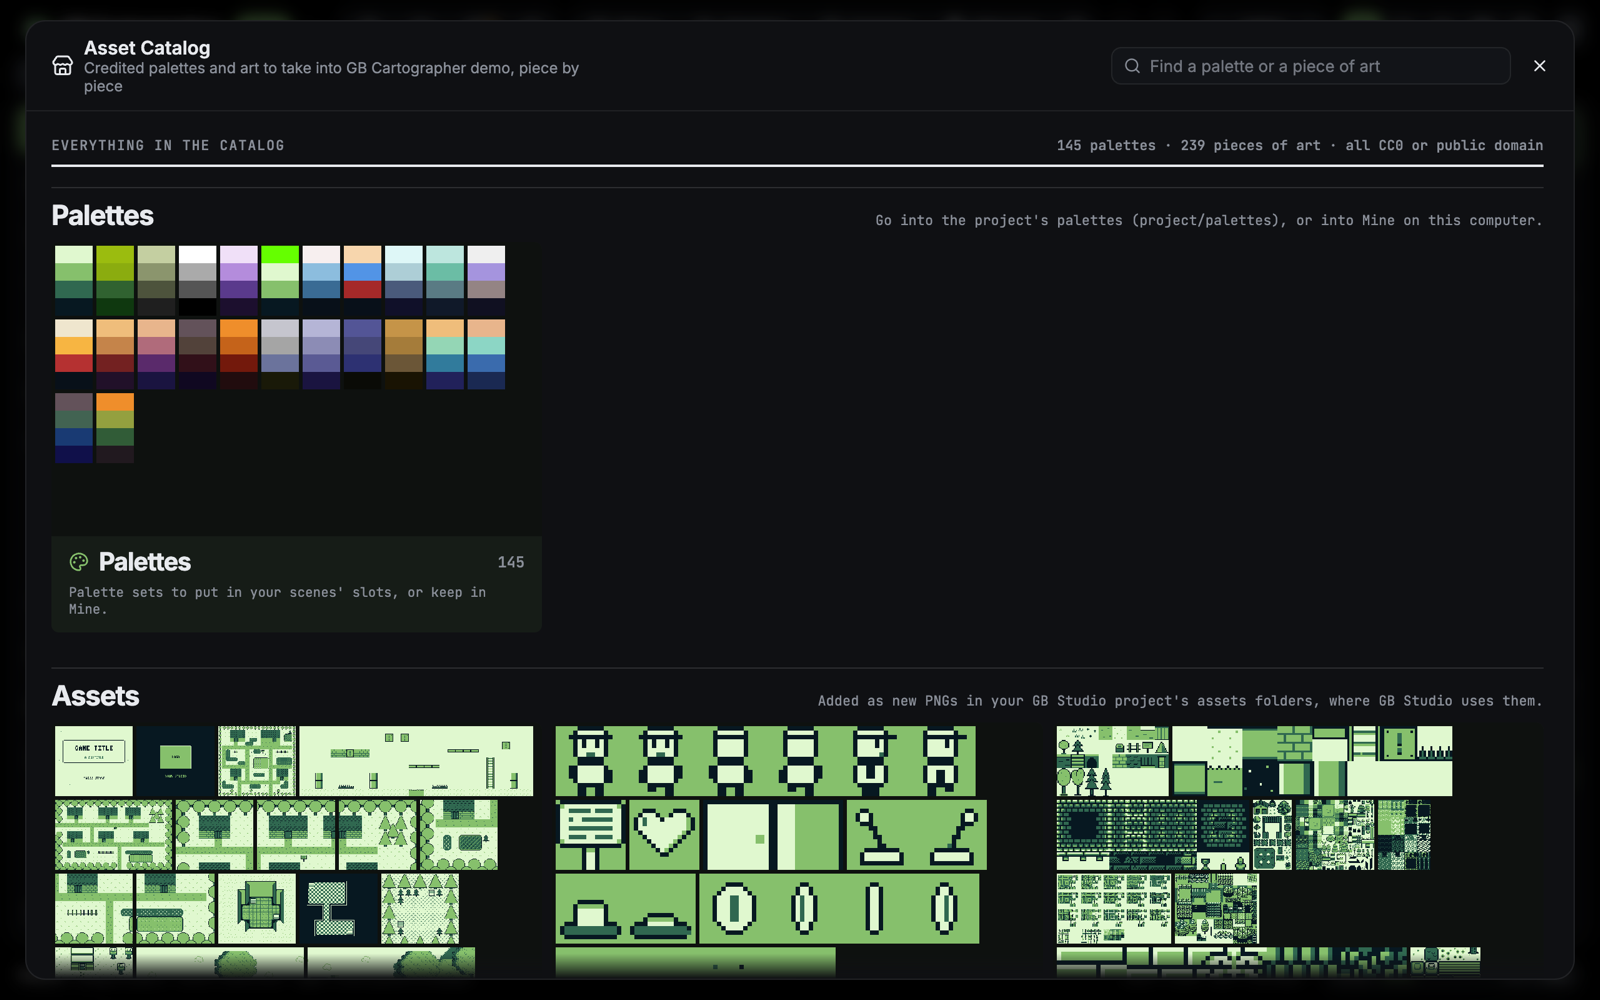
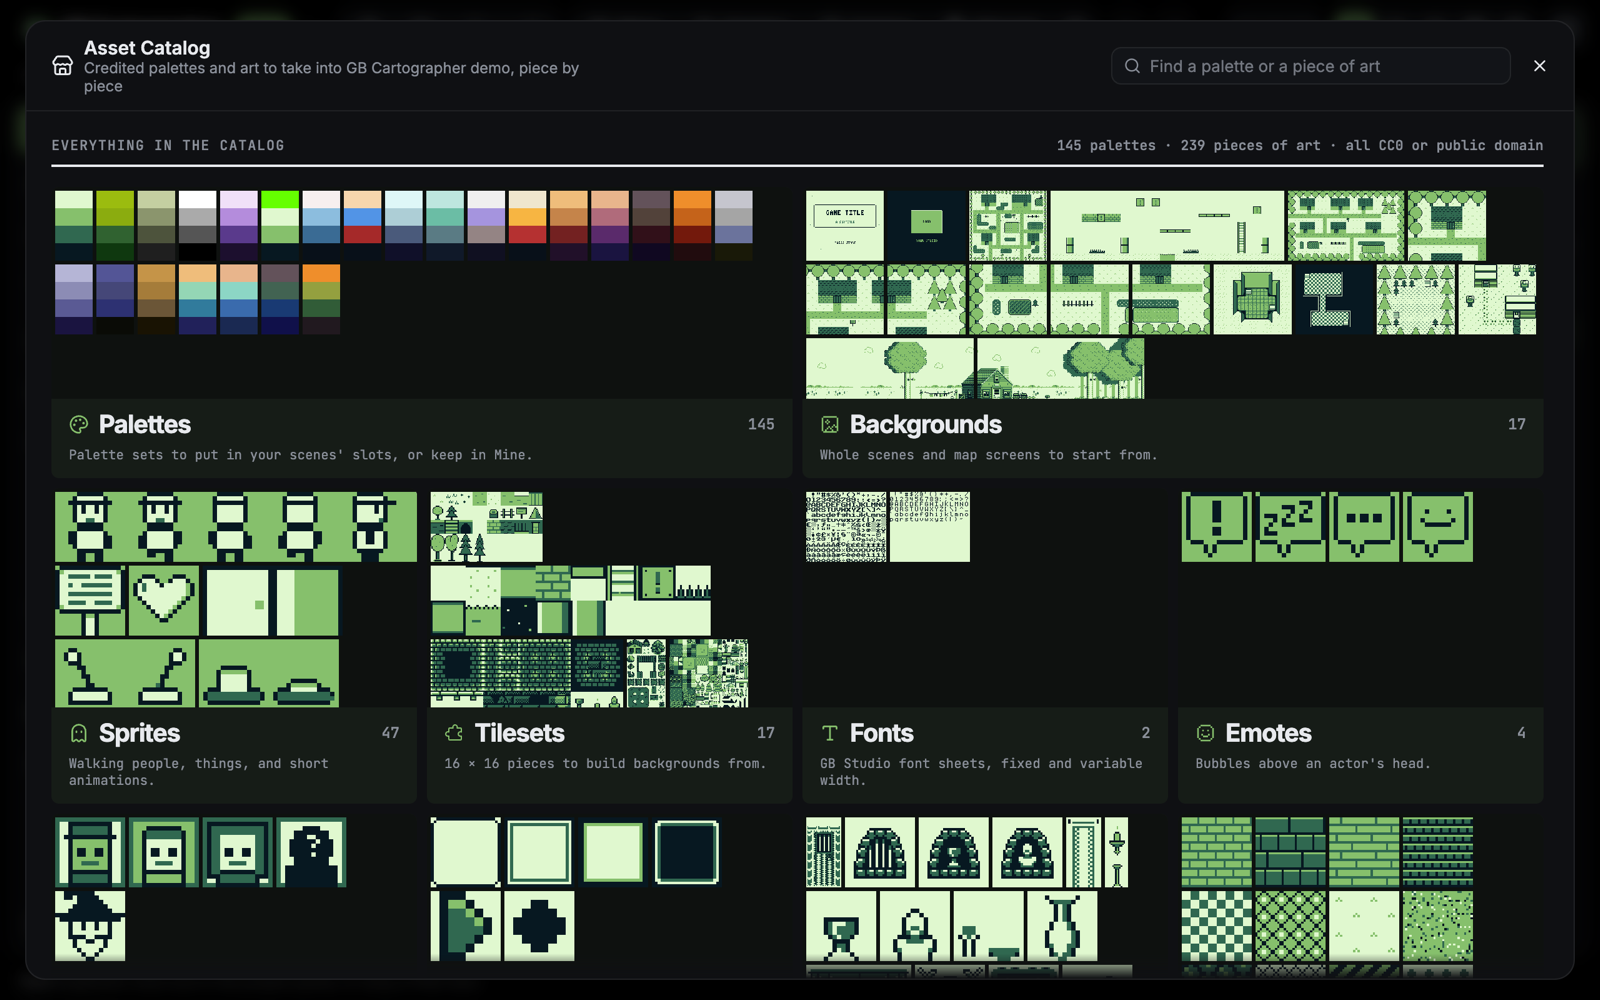
Asset Catalog home: one four-column grid in the sidebar's order; README media redone on the demo's town, a cave GIF, the Map Room full width

diff --git a/src/app/StoreWindow.tsx b/src/app/StoreWindow.tsx
@@ -151,6 +151,8 @@ const SECTIONS: { id: string; title: string; note: string; ids: CategoryId[] }[]
   { id: "pictures", title: "Assets", note: "Added as new PNGs in your GB Studio project's assets folders, where GB Studio uses them.", ids: ["backgrounds", "sprites", "tilesets", "fonts", "emotes", "avatars", "ui"] },
   { id: "stamps", title: "Stamps", note: "Added to Cartographer/stamps in your project, for painting with in GB Cartographer. GB Studio never reads them.", ids: ["objects", "repeat", "autotiles", "animated"] },
 ];
+/** Home tiles two columns wide; the rest are one (4 + 4 + 4 + 4 across the four rows). */
+const WIDE_TILES = new Set<CategoryId>(["palettes", "backgrounds", "autotiles", "animated"]);
 const isStampCategory = (id: CategoryId) => SECTIONS[2].ids.includes(id);
 const categoryOf = (asset: WireAsset): CategoryId => asset.kind === "stamps" ? stampGroup({ autotile: asset.autotile, tags: asset.group === "Patterns" ? ["pattern"] : [] }) : asset.kind as CategoryId;
 const PALETTE_COUNT = SHELVES.reduce((sum, shelf) => sum + shelf.sets.reduce((n, set) => n + set.palettes.length, 0), 0);
@@ -185,30 +187,30 @@ export function StoreWindow({ projectName, projectPalettes, onClose, onAddToProj
   async function addArt(asset: WireAsset, art: Canvas) { setBusy(true); try { if (await onAddArt(asset, art)) setAdded((was) => new Set(was).add(asset.id)); } finally { setBusy(false); } }
   const home = () => { setCategory(null); setQuery(""); };
 
-  /** The home: a tile per category in an even grid. */
-  const mosaic = SECTIONS.map((section) => (
-    <section key={section.id} className={`stm-section stm-section--${section.id}`}>
-      <header className="stm-section-head"><span className="stm-section-title">{section.title}</span><span className="stm-section-note">{section.note}</span></header>
+  /**
+   * The home (the author, 2026-10-14: "just mix it all up, 4 columns, in order of appearance in the sidebar; no tile
+   * bigger than 2 wide or 1 tall"): one grid, palettes first, then the rail's folders and stamp shelves in order.
+   */
+  const mosaic = (
       <div className="stm-grid">
-      {CATEGORIES.filter((item) => section.ids.includes(item.id)).map((item) => {
+      {CATEGORIES.map((item) => {
         const n = count(item.id);
         const collage = item.id === "palettes"
           ? SHELVES.flatMap((shelf) => shelf.sets.flatMap((set) => set.palettes)).slice(0, 24).map((palette) => <span key={palette.name} className="stm-chip">{palette.colors.map((color, at) => <i key={at} style={{ background: color }} />)}</span>)
           : pieces.filter((piece) => piece.category === item.id).slice(0, 18).map(({ asset, art }) => <img key={asset.id} src={pictureUrl(asset.id, art)} alt="" draggable={false} />);
         // A grid like the Wizards' (the author, 2026-10-14): the collage on top, the name, count and line below.
         return (
-          <button key={item.id} type="button" className="stm-cat" disabled={!n} onClick={() => setCategory(item.id)} title={n ? `${item.name}: ${item.about}` : `${item.name}: none in the catalog yet`}>
+          <button key={item.id} type="button" className={`stm-cat${WIDE_TILES.has(item.id) ? " stm-cat--wide" : ""}`} disabled={!n} onClick={() => setCategory(item.id)} title={n ? `${item.name}: ${item.about}` : `${item.name}: none in the catalog yet`}>
             <span className="stm-cat-art" aria-hidden><span className="stm-cat-collage">{collage}</span></span>
             <span className="stm-cat-text">
               <span className="stm-cat-name"><span className="stm-icon">{item.icon}</span>{item.name}<span className="stm-cat-count">{n || "–"}</span></span>
-              <span className="stm-meta">{n ? item.about : "None yet"}</span>
+              <span className="stm-meta">{n ? item.about : "None yet"}{isStampCategory(item.id) && <> · a stamp shelf</>}</span>
             </span>
           </button>
         );
       })}
       </div>
-    </section>
-  ));
+  );
 
   const artTiles = (list: typeof pieces) => (
     <div className="stm-tiles">

diff --git a/src/app/StoreWindow.css b/src/app/StoreWindow.css
@@ -93,7 +93,9 @@
 .stm-tile-source { position: relative; display: flex; margin-top: 4px; }
 
 /* The home as an even grid, like the Wizards (the author, 2026-10-14): three across, the collage on top. */
-.stm-grid { display: grid; grid-template-columns: repeat(3, minmax(0, 1fr)); gap: 8px; }
+.stm-grid { display: grid; grid-template-columns: repeat(4, minmax(0, 1fr)); grid-auto-flow: dense; gap: 8px; }
+.stm-cat--wide { grid-column: span 2; }
+.stm-cat--wide .stm-cat-art { aspect-ratio: 336 / 96; }
 .stm-cat { position: relative; overflow: hidden; display: flex; flex-direction: column; padding: 0; border: 0; border-radius: 6px; background: var(--k-panel-2, #161c17); color: var(--k-ink); text-align: left; font: inherit; cursor: pointer; }
 .stm-cat:disabled { opacity: .45; cursor: default; }
 .stm-cat-art { position: relative; aspect-ratio: 160 / 96; overflow: hidden; background: #0e110f; }
@@ -106,4 +108,4 @@
 .stm-cat-name .stm-icon svg { width: 16px; height: 16px; }
 .stm-cat-count { margin-left: auto; font: 500 12px 'JetBrains Mono', ui-monospace, monospace; color: var(--k-ink-3); letter-spacing: 0; }
 .stm-cat:not(:disabled):hover .stm-cat-name { color: var(--k-acc); }
-@media (max-width: 760px) { .stm-grid { grid-template-columns: 1fr; } }
+@media (max-width: 760px) { .stm-grid { grid-template-columns: 1fr 1fr; } }

diff --git a/README.md b/README.md
@@ -9,7 +9,7 @@ palettes straight back into the project.
 > control). It writes into your project when you save, features and file handling are still changing, and there
 > will be bugs. Close GB Studio while you work, and please report problems in the repository's issues.
 
-![A generated overworld open in the painter, in its palettes](docs/media/painter.png)
+![The demo's town open in the painter, in its palettes](docs/media/painter.png)
 
 ![Painting palettes onto the demo's village, tile by tile, with the palette brush](docs/media/palette-brush.gif)
 
@@ -98,8 +98,11 @@ pick. Make background puts the map and its palettes in your project.
 
 | | |
 | :---: | :---: |
-| ![The overworld generator in SpicyGame's VIBE-20 colors](docs/media/generators.png) | ![The cave generator in a stone palette](docs/media/cave.png) |
-| ![The Wizards gallery: a card and a picture for each wizard](docs/media/wizards.png) | ![The Map Room with a village laid out as six screens that meet at their edges](docs/media/map-room.png) |
+| ![The cave generator: the rock slider moving, then dungeons rolled](docs/media/cave.gif) | ![The cave generator in a stone palette](docs/media/cave.png) |
+
+![The Wizards gallery: a card and a picture for each wizard](docs/media/wizards.png)
+
+![The Map Room with a village laid out as six screens that meet at their edges](docs/media/map-room.png)
 
 ![The Asset Catalog: palettes and art to take into a project, each credited](docs/media/graphics.png)
 
